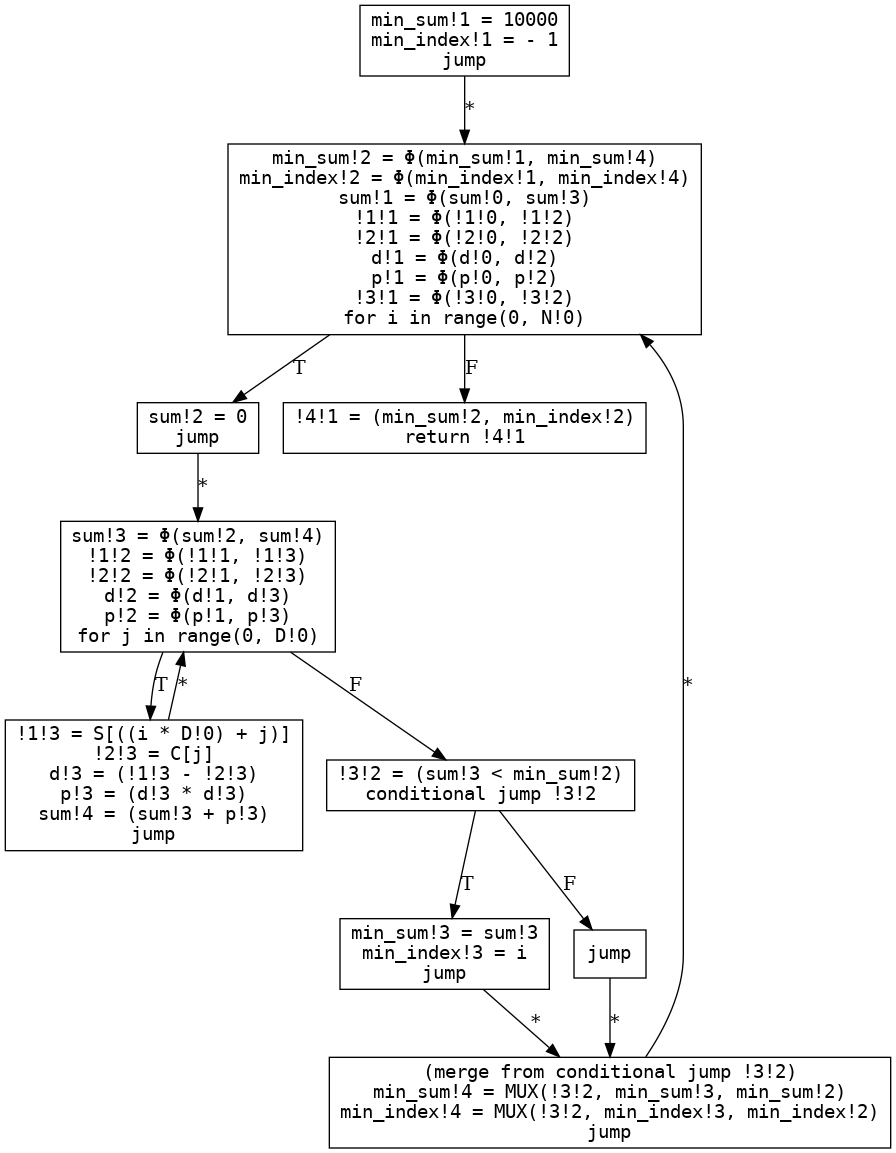
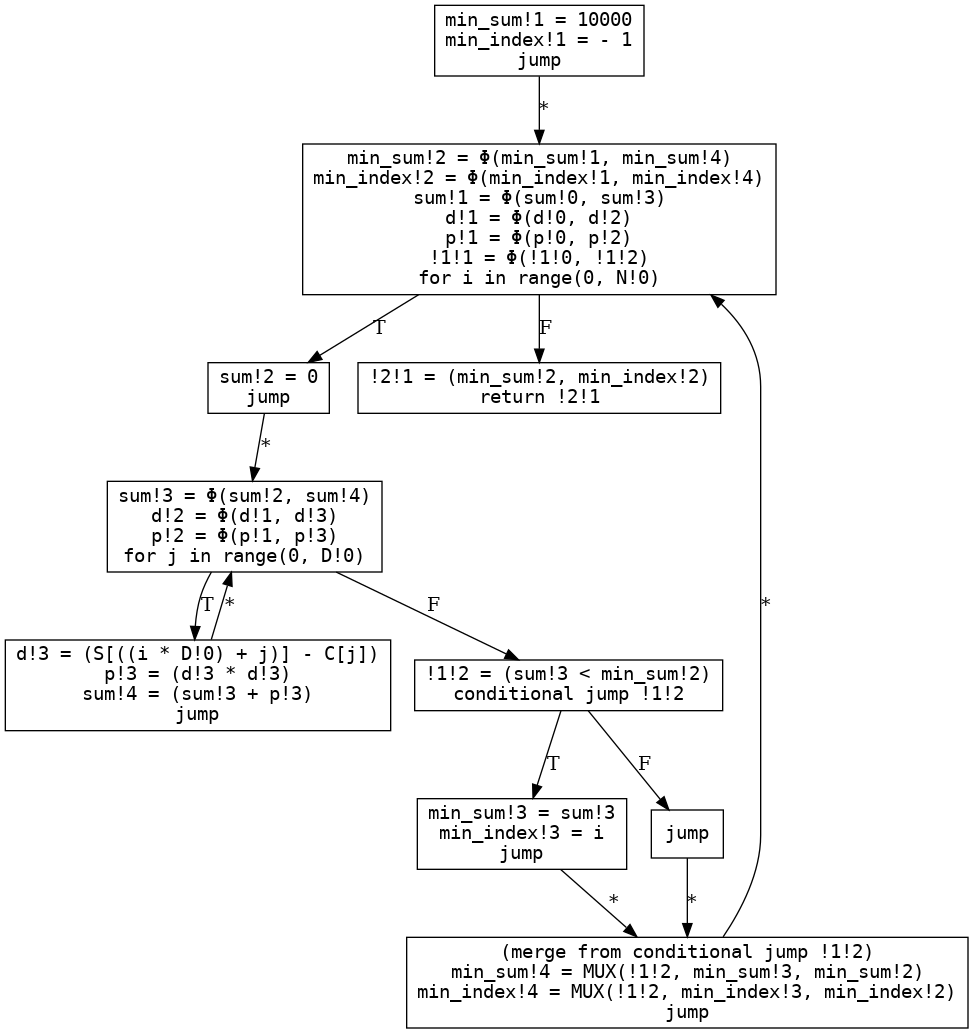
Deploying to gh-pages from  @ 9805cf501d625fa358b30743c3ece076c0430075 🚀

Changed region(s): [[0.0, 0.0, 1.0, 1.0]]

diff --git a/README.md b/README.md
@@ -60,30 +60,24 @@ def foo(C, D, S, N):
         min_sum!2 = Φ(min_sum!1, min_sum!4)
         min_index!2 = Φ(min_index!1, min_index!4)
         sum!1 = Φ(sum!0, sum!3)
-        !1!1 = Φ(!1!0, !1!2)
-        !2!1 = Φ(!2!0, !2!2)
         d!1 = Φ(d!0, d!2)
         p!1 = Φ(p!0, p!2)
-        !3!1 = Φ(!3!0, !3!2)
+        !1!1 = Φ(!1!0, !1!2)
         sum!2 = 0
         for j in range(0, D!0):
             sum!3 = Φ(sum!2, sum!4)
-            !1!2 = Φ(!1!1, !1!3)
-            !2!2 = Φ(!2!1, !2!3)
             d!2 = Φ(d!1, d!3)
             p!2 = Φ(p!1, p!3)
-            !1!3 = S[((i * D!0) + j)]
-            !2!3 = C[j]
-            d!3 = (!1!3 - !2!3)
+            d!3 = (S[((i * D!0) + j)] - C[j])
             p!3 = (d!3 * d!3)
             sum!4 = (sum!3 + p!3)
-        !3!2 = (sum!3 < min_sum!2)
+        !1!2 = (sum!3 < min_sum!2)
         min_sum!3 = sum!3
         min_index!3 = i
-        min_sum!4 = MUX(!3!2, min_sum!3, min_sum!2)
-        min_index!4 = MUX(!3!2, min_index!3, min_index!2)
-    !4!1 = (min_sum!2, min_index!2)
-    return !4!1
+        min_sum!4 = MUX(!1!2, min_sum!3, min_sum!2)
+        min_index!4 = MUX(!1!2, min_index!3, min_index!2)
+    !2!1 = (min_sum!2, min_index!2)
+    return !2!1
 ```
 ### Dependency graph
 ![](biometric_dep_graph.png)
@@ -192,29 +186,20 @@ def foo(D, N, C, C_sqr_sum, two_C, S, S_sqr_sum):
     !1!1 = [0]
     differences!1 = (!1!1 * D!0)
     for i in range(0, N!0):
-        !2!1 = Φ(!2!0, !2!2)
         a_sqr_plus_b_sqr!1 = Φ(a_sqr_plus_b_sqr!0, a_sqr_plus_b_sqr!2)
         two_a_b!1 = Φ(two_a_b!0, two_a_b!3)
-        !3!1 = Φ(!3!0, !3!2)
-        !4!1 = Φ(!4!0, !4!2)
         tmp!1 = Φ(tmp!0, tmp!2)
         this_diff!1 = Φ(this_diff!0, this_diff!2)
         differences[i] = Φ(differences[i], differences[i])
         min_diff!1 = Φ(min_diff!0, min_diff!3)
         min_index!1 = Φ(min_index!0, min_index!3)
-        !5!1 = Φ(!5!0, !5!2)
-        !6!1 = Φ(!6!0, !6!2)
-        !2!2 = S_sqr_sum[i]
-        a_sqr_plus_b_sqr!2 = (!2!2 + C_sqr_sum!0)
+        !2!1 = Φ(!2!0, !2!2)
+        a_sqr_plus_b_sqr!2 = (S_sqr_sum[i] + C_sqr_sum!0)
         two_a_b!2 = 0
         for j in range(0, D!0):
             two_a_b!3 = Φ(two_a_b!2, two_a_b!4)
-            !3!2 = Φ(!3!1, !3!3)
-            !4!2 = Φ(!4!1, !4!3)
             tmp!2 = Φ(tmp!1, tmp!3)
-            !3!3 = S[((i * D!0) + j)]
-            !4!3 = two_C[j]
-            tmp!3 = (!3!3 * !4!3)
+            tmp!3 = (S[((i * D!0) + j)] * two_C[j])
             two_a_b!4 = (two_a_b!3 + tmp!3)
         this_diff!2 = (a_sqr_plus_b_sqr!2 - two_a_b!3)
         differences[i] = this_diff!2
@@ -223,16 +208,14 @@ def foo(D, N, C, C_sqr_sum, two_C, S, S_sqr_sum):
         for k in range(0, N!0):
             min_diff!3 = Φ(min_diff!2, min_diff!5)
             min_index!3 = Φ(min_index!2, min_index!5)
-            !5!2 = Φ(!5!1, !5!3)
-            !6!2 = Φ(!6!1, !6!3)
-            !5!3 = differences[k]
-            !6!3 = (!5!3 < min_diff!3)
+            !2!2 = Φ(!2!1, !2!3)
+            !2!3 = (differences[k] < min_diff!3)
             min_diff!4 = differences[k]
             min_index!4 = k
-            min_diff!5 = MUX(!6!3, min_diff!4, min_diff!3)
-            min_index!5 = MUX(!6!3, min_index!4, min_index!3)
-    !7!1 = (min_diff!1, min_index!1)
-    return !7!1
+            min_diff!5 = MUX(!2!3, min_diff!4, min_diff!3)
+            min_index!5 = MUX(!2!3, min_index!4, min_index!3)
+    !3!1 = (min_diff!1, min_index!1)
+    return !3!1
 ```
 ### Dependency graph
 ![](biometric_fast_dep_graph.png)
@@ -348,24 +331,13 @@ def foo(A, B, N, num_bins):
         result!3 = (result!2 + !1!2)
     for i in range(0, num_bins!0):
         !2!1 = Φ(!2!0, !2!2)
-        !3!1 = Φ(!3!0, !3!2)
-        !4!1 = Φ(!4!0, !4!2)
-        !5!1 = Φ(!5!0, !5!2)
         result[i] = Φ(result[i], result[i])
         for j in range(0, N!0):
             !2!2 = Φ(!2!1, !2!3)
-            !3!2 = Φ(!3!1, !3!3)
-            !4!2 = Φ(!4!1, !4!4)
-            !5!2 = Φ(!5!1, !5!4)
             result[i] = Φ(result[i], result[i])
-            !2!3 = A[j]
-            !3!3 = (!2!3 == i)
-            !4!3 = result[i]
-            !5!3 = B[j]
-            result[i] = (!4!3 + !5!3)
-            !4!4 = MUX(!3!3, !4!3, !4!2)
-            !5!4 = MUX(!3!3, !5!3, !5!2)
-            result[i] = MUX(!3!3, result[i], result[i])
+            !2!3 = (A[j] == i)
+            result[i] = (result[i] + B[j])
+            result[i] = MUX(!2!3, result[i], result[i])
     return result!2
 ```
 ### Dependency graph
@@ -409,12 +381,8 @@ def foo(A, B, N):
     sum!1 = 0
     for i in range(0, N!0):
         sum!2 = Φ(sum!1, sum!3)
-        !1!1 = Φ(!1!0, !1!2)
-        !2!1 = Φ(!2!0, !2!2)
         temp!1 = Φ(temp!0, temp!2)
-        !1!2 = A[i]
-        !2!2 = B[i]
-        temp!2 = (!1!2 * !2!2)
+        temp!2 = (A[i] * B[i])
         sum!3 = (sum!2 + temp!2)
     return sum!2
 ```
@@ -471,23 +439,21 @@ def foo(A, SA, B, SB):
         !2!1 = Φ(!2!0, !2!2)
         !3!1 = Φ(!3!0, !3!2)
         !4!1 = Φ(!4!0, !4!2)
-        !5!1 = Φ(!5!0, !5!2)
         for j in range(0, SB!0):
             result!3 = Φ(result!2, result!5)
             !1!2 = Φ(!1!1, !1!3)
-            !2!2 = Φ(!2!1, !2!3)
-            !3!2 = Φ(!3!1, !3!3)
+            !2!2 = Φ(!2!1, !2!4)
+            !3!2 = Φ(!3!1, !3!4)
             !4!2 = Φ(!4!1, !4!4)
-            !5!2 = Φ(!5!1, !5!4)
-            !1!3 = A[i]
-            !2!3 = B[j]
-            !3!3 = (!1!3 == !2!3)
-            !4!3 = A[i]
-            !5!3 = [!4!3]
-            result!4 = (result!3 + !5!3)
-            result!5 = MUX(!3!3, result!4, result!3)
-            !4!4 = MUX(!3!3, !4!3, !4!2)
-            !5!4 = MUX(!3!3, !5!3, !5!2)
+            !1!3 = (A[i] == B[j])
+            !2!3 = A[i]
+            !3!3 = A[i]
+            !4!3 = [!3!3]
+            result!4 = (result!3 + !4!3)
+            result!5 = MUX(!1!3, result!4, result!3)
+            !2!4 = MUX(!1!3, !2!3, !2!2)
+            !3!4 = MUX(!1!3, !3!3, !3!2)
+            !4!4 = MUX(!1!3, !4!3, !4!2)
     return result!2
 ```
 ### Dependency graph
